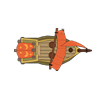
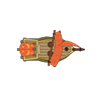
colors colors colors

Changed region(s): [[0.12, 0.27, 0.93, 0.72]]

diff --git a/simulator/src/main/java/view/utility/Configuration.java b/simulator/src/main/java/view/utility/Configuration.java
@@ -44,12 +44,14 @@ public class Configuration {
 	private int rounds = ROUNDS_MIN;
 	
 	private List<String> tactics = new LinkedList<String>();
-	private final List<String>  captainNames = new LinkedList<String>(Arrays.asList(
-			"Captain Blaubaer", "Black Beard", "Red Beard", "Henry Morgan", "Francis Drake", "Stoertebeker", "Captain Hook", 
-			"Monkey D. Ruffy", "LeChuck"));
+	public final List<String>  captainNames = new LinkedList<String>(Arrays.asList(
+			"Captain Blaubaer", "Flying Dutchman", "Black Beard", "Jeanne de Belleville", "Red Beard", "Henry Morgan", "Francis Drake",
+			"Stoertebeker", "Captain Hook", "Monkey D. Ruffy", "LeChuck", "Mary Read", "Bill Turner", "Babossa", "Captain Flint", 
+			"Chui A-Poo", "Dread Pirate Roberts", "Billy One-Hand", "Gottfrid Svartholm", "Gold Roger", "Zheng Yi-Sao", "Jack Aubrey",
+			"John Silver", "Black Jack Anderson", "Jack Sparrow", "Simbad"));
 	
 	private List<String> finalCaptainNames = new LinkedList<String>();
-	private List<String> currentFreeNames = captainNames;
+	private List<String> currentFreeNames;
 	private Set<String> currentReservedNames = new HashSet<String>();
 	private List<ComboBox<String>> teamConfigs = new LinkedList<ComboBox<String>>();
 	
@@ -58,6 +60,12 @@ public class Configuration {
 	private char[][] map;
 	private Generator generator;
 	
+	
+	public Configuration(){
+		currentFreeNames = new LinkedList<String>();
+		for(String name: captainNames)
+			currentFreeNames.add(name);
+	}
 	
 	public void setMap(char[][] map, boolean smooth){
 		this.map = map;

diff --git a/simulator/src/main/java/view/utility/Ressources.java b/simulator/src/main/java/view/utility/Ressources.java
@@ -26,6 +26,7 @@ public class Ressources {
 	private Image shoreWater;
 	
 	private List<Image> islandDetails = new ArrayList<Image>();
+	private List<Image> shipImages = new ArrayList<Image>();
 	
 	private Configuration defaultConfiguration;
 	
@@ -92,6 +93,12 @@ public class Ressources {
 	    	stream = new FileInputStream(file);
 	    	islandDetails.add(new Image(stream));
 	    	
+	    	for(int i = 1; i < 6; i++){
+	    		file = new File("src/main/ressources/ships/"+i+".png");
+	    		stream = new FileInputStream(file);
+	    		shipImages.add(new Image(stream));
+	    	}
+	    	
 	    	stream.close();
 	    	createDefaultConfig();
     	}
@@ -122,6 +129,10 @@ public class Ressources {
 	
 	public Image getShipImage(){
 		return ship;
+	}
+	
+	public Image getShipImage(int fleet){
+		return shipImages.get(fleet);
 	}
 	
 	public Image getWaterTreasureImage(){
@@ -165,7 +176,7 @@ public class Ressources {
 		defaultConfiguration.setTreasureDensity(1);
 		defaultConfiguration.setSupplyDensity(2);
 		defaultConfiguration.setKrakenCount(100);
-		defaultConfiguration.setTeamCount(1);
+		defaultConfiguration.setTeamCount(4);
 		defaultConfiguration.setShipCount(10);
 
 		defaultConfiguration.setRounds(10000);

diff --git a/simulator/src/main/java/view/gamestates/InGameState.java b/simulator/src/main/java/view/gamestates/InGameState.java
@@ -31,6 +31,7 @@ import view.utility.Field;
 import view.utility.GameFlowControl;
 import view.utility.GameState;
 import view.utility.Map;
+import view.utility.MapPreview;
 import view.utility.Ressources;
 import view.utility.Ship;
 import view.utility.Team;
@@ -168,6 +169,10 @@ public class InGameState implements GameState, LogWriter {
 		for(final Team team: teams){
 			
 			final TitledPane pane = new TitledPane(team.toString(), new Text(giveTeamText(team)));
+			pane.setStyle("-fx-text-fill: red");
+			int index = config.captainNames.indexOf(team.toString());
+			String colorString = MapPreview.teamColors[index];	
+			pane.setStyle("-fx-mark-color: #"+colorString);
 			pane.setOnMouseClicked(new EventHandler<MouseEvent>(){
 
 				@Override
@@ -175,7 +180,10 @@ public class InGameState implements GameState, LogWriter {
 					map.drawMap();
 					for(Ship ship: team.getShips()){
 						Field field = fields[ship.getX()][ship.getY()];
-						map.markField(field);
+						Team team = teams.get(ship.getFleet());
+						int index = config.captainNames.indexOf(team.toString());
+						String colorString = MapPreview.teamColors[index];
+						map.markField(field, colorString);
 					}
 				}
 			});

diff --git a/simulator/src/main/java/view/utility/TeamSelectionWindow.java b/simulator/src/main/java/view/utility/TeamSelectionWindow.java
@@ -41,7 +41,7 @@ public class TeamSelectionWindow {
 		color = new Rectangle();
 		color.setWidth(15);
 		color.setHeight(15);
-		color.setFill(Color.BLUE);
+		color.setFill(Color.WHITE);
 		
 		ObservableList<String> captains = FXCollections.observableArrayList(config.getCaptainNames());
 		captainChooser = new ComboBox<String>(captains);
@@ -58,6 +58,13 @@ public class TeamSelectionWindow {
 				
 				config.getCurrentCaptainName().remove(currentValue);
 				currentValue = newValue;
+				
+				int index = config.captainNames.indexOf(currentValue);
+				if(index != -1){
+					String colorString = MapPreview.teamColors[config.captainNames.indexOf(currentValue)];
+					color.setFill(Color.web(colorString));
+				}
+				
 				config.getCaptainNames().remove(newValue);
 				config.getCurrentCaptainName().add(newValue);
 			}

diff --git a/simulator/src/main/java/view/utility/MapPreview.java b/simulator/src/main/java/view/utility/MapPreview.java
@@ -14,7 +14,7 @@ public class MapPreview {
 	private int x;
 	private int y;
 	private char[][] map;
-	private String[] teamColors = {"FFFFFF","FF0040","0000FF","00FFFF","FFFF00","00FF00","000000", "585858", "A9F5F2","F5A9E1","088A29","088A68", "088A68", "086A87", "08298A", "29088A", "6A0888", "8A0868",
+	public static final String[] teamColors = {"FFFFFF","FF0040","0000FF","00FFFF","FFFF00","00FF00","000000", "585858", "A9F5F2","F5A9E1","088A29","088A68", "088A68", "086A87", "08298A", "29088A", "6A0888", "8A0868",
 								   "3A2F0B", "243B0B", "0B3B24", "0B2F3A", "0B0B3B", "2F0B3A", "3B0B17", "610B21"};
 	
 	public MapPreview(File mapFile) throws IOException{

diff --git a/simulator/src/main/java/view/utility/Team.java b/simulator/src/main/java/view/utility/Team.java
@@ -6,15 +6,17 @@ import java.util.List;
 public class Team {
 
 	private String name;
+	private int id;
 	private int score;
 	private List<Ship> ships;
 	
 	public Team(Integer number, Configuration config){
 		if(config.getFinalCaptainNames().size() == 0)
-			name = "Team " + number.toString();
+			name = config.captainNames.get(number);
 		else
 			name = config.getFinalCaptainNames().get(number);
 		
+		id = number;
 		ships = new LinkedList<Ship>();
 		score = 0;
 	}
@@ -41,6 +43,10 @@ public class Team {
 	
 	public int getShipCount(){
 		return ships.size();
+	}
+	
+	public int getID(){
+		return id;
 	}
 	
 	@Override

diff --git a/simulator/src/main/java/view/utility/Map.java b/simulator/src/main/java/view/utility/Map.java
@@ -96,13 +96,17 @@ public class Map {
 	}
 	
 	public void markField(Field field){		
+		markField(field, "B2E097");
+	}
+	
+	public void markField(Field field, String color){
 		int x = mod(field.getX() - cam.a, mapWidth);
     	int y = mod(field.getY() - cam.c, mapHeight);
     	double radius = gc.getCanvas().getWidth()/cam.width()/2;
 		double stepX = ((y+cam.c)%2 == 0) ? 0 : radius;
 		double stepY = y*(radius/2);
 		
-		markHex(new Point2D(x*2*radius+stepX, y*2*radius - stepY), radius, Color.web("B2E097"), false);
+		markHex(new Point2D(x*2*radius+stepX, y*2*radius - stepY), radius, Color.web(color), false);	
 	}
 	
 	

diff --git a/simulator/src/main/java/view/utility/Field.java b/simulator/src/main/java/view/utility/Field.java
@@ -150,7 +150,8 @@ public class Field {
 				farAway = true;
 		}
 		else
-			this.shipImage = map.getRessources().getShipImage();
+			this.shipImage = map.getRessources().getShipImage(ship.getFleet());
+			//this.shipImage = map.getRessources().getShipImage();
 
 		this.ship = ship;
 		redraw();

diff --git a/simulator/src/main/java/view/gamestates/TeamSettingsState2.java b/simulator/src/main/java/view/gamestates/TeamSettingsState2.java
@@ -88,9 +88,7 @@ public class TeamSettingsState2 implements GameState {
 					oneTactic = false;
 					for(TeamSelectionWindow window : teamWindows){
 						window.getTacticButton().setDisable(false);
-						
 					}
-					
 				}
 			}
 		});
